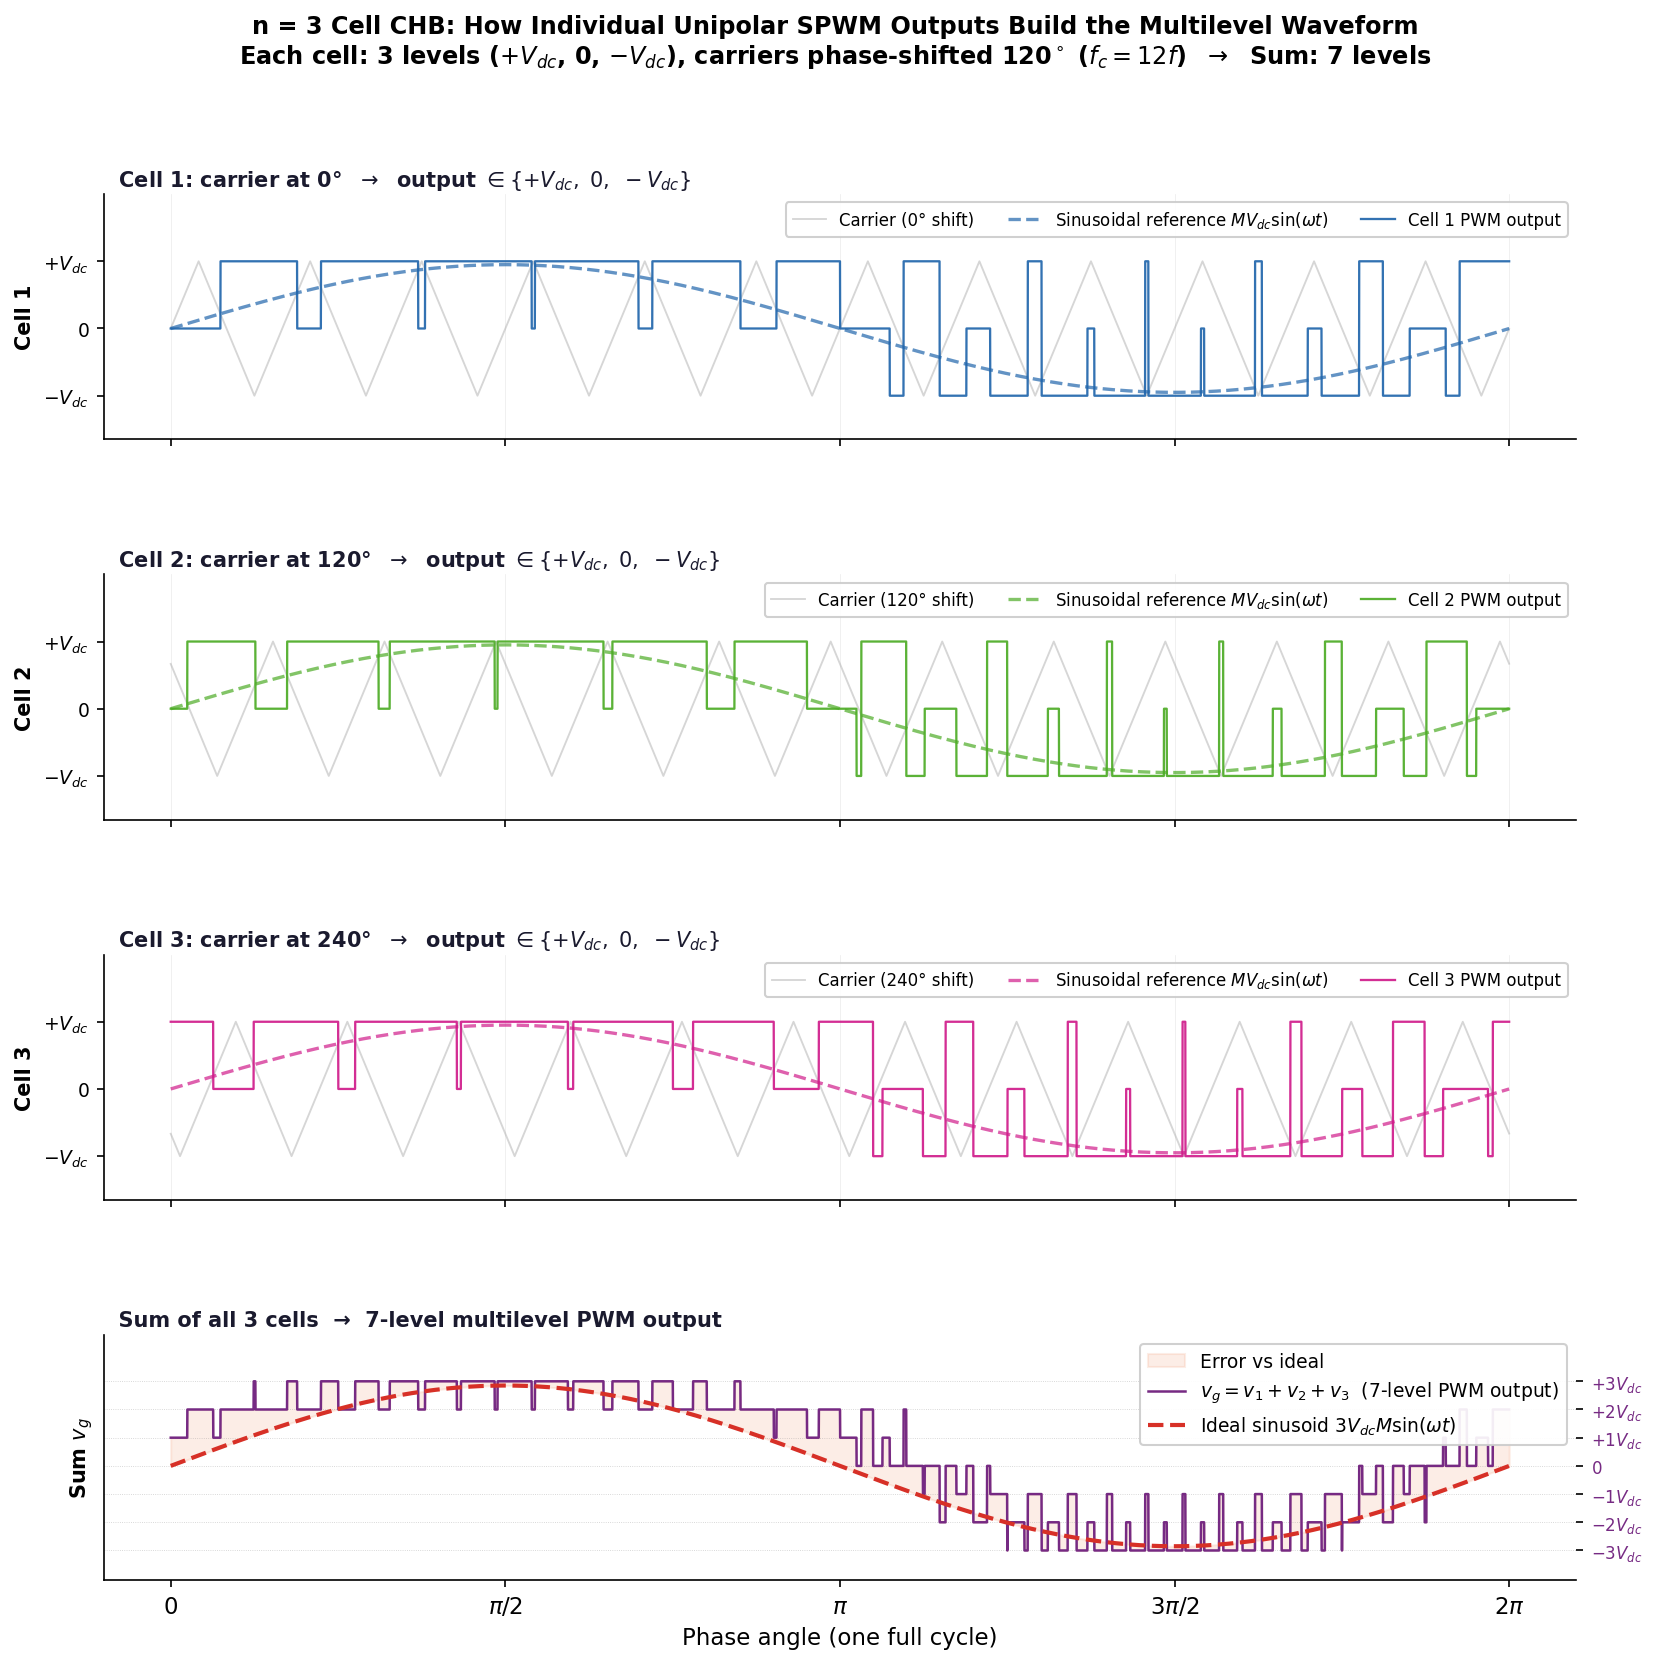
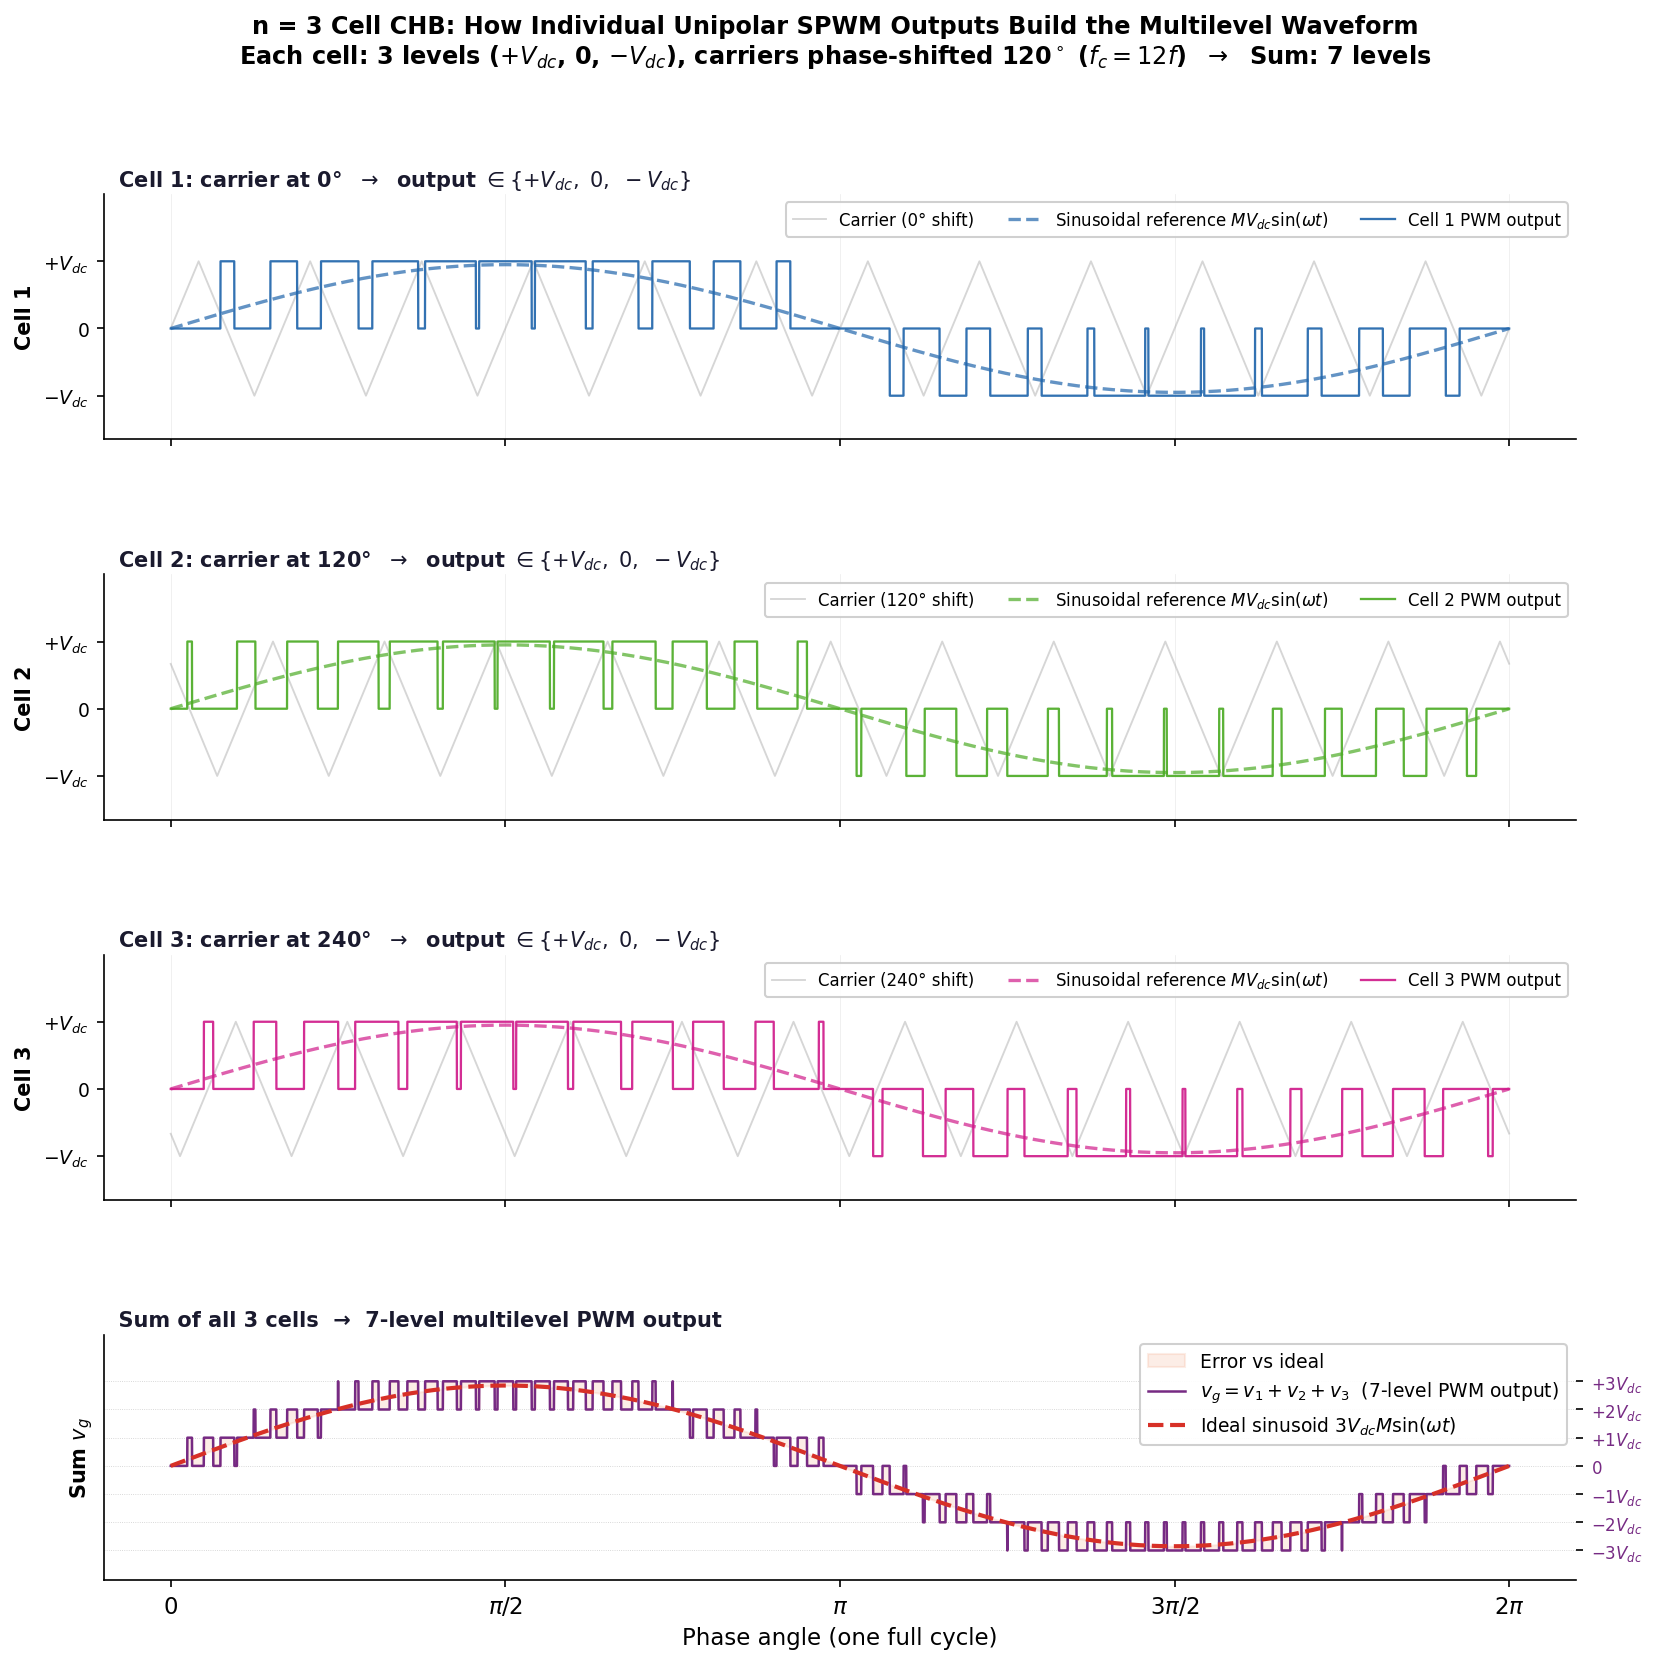
Fix unipolar PWM comparator: use abs(carrier) for correct null state
Bug: `ref > carrier` fired whenever carrier was negative, creating
spurious +Vdc pulses at zero crossings and a DC offset ~0.2Vdc per cell.

Fix: compare ref to abs(carrier), so the zero-state (freewheeling)
is correctly applied when |ref| < |carrier|, matching the actual
H-bridge comparator logic (leg A vs +carrier, leg B vs -carrier).

diff --git a/gen_staircase_buildup.py b/gen_staircase_buildup.py
@@ -24,7 +24,8 @@ def triangular(t_norm, fc_ratio, phase_deg):
 def unipolar_pwm(t_norm, fc_ratio, carrier_phase_deg, M, Vdc):
     ref     = M * np.sin(2 * np.pi * t_norm)
     carrier = triangular(t_norm, fc_ratio, carrier_phase_deg)
-    return np.where(ref > carrier, Vdc, np.where(ref < -carrier, -Vdc, 0.0))
+    ac = np.abs(carrier)
+    return np.where(ref > ac, Vdc, np.where(ref < -ac, -Vdc, 0.0))
 
 carrier_phases = [0, 120, 240]
 v_cells  = [unipolar_pwm(t, FC_RATIO, cp, M, Vdc) for cp in carrier_phases]

diff --git a/gen_staircase.py b/gen_staircase.py
@@ -23,7 +23,8 @@ def triangular(t_norm, fc_ratio, phase_deg):
 def unipolar_pwm(t_norm, fc_ratio, carrier_phase_deg, M, Vdc):
     ref     = M * np.sin(2 * np.pi * t_norm)
     carrier = triangular(t_norm, fc_ratio, carrier_phase_deg)
-    return np.where(ref > carrier, Vdc, np.where(ref < -carrier, -Vdc, 0.0))
+    ac = np.abs(carrier)
+    return np.where(ref > ac, Vdc, np.where(ref < -ac, -Vdc, 0.0))
 
 n_list = [1, 2, 3, 4]
 
